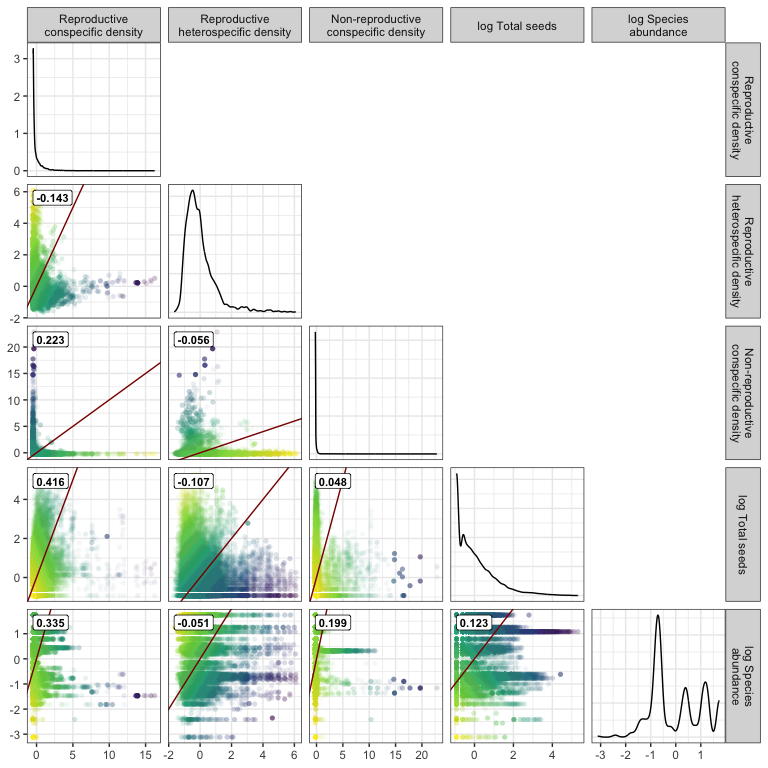
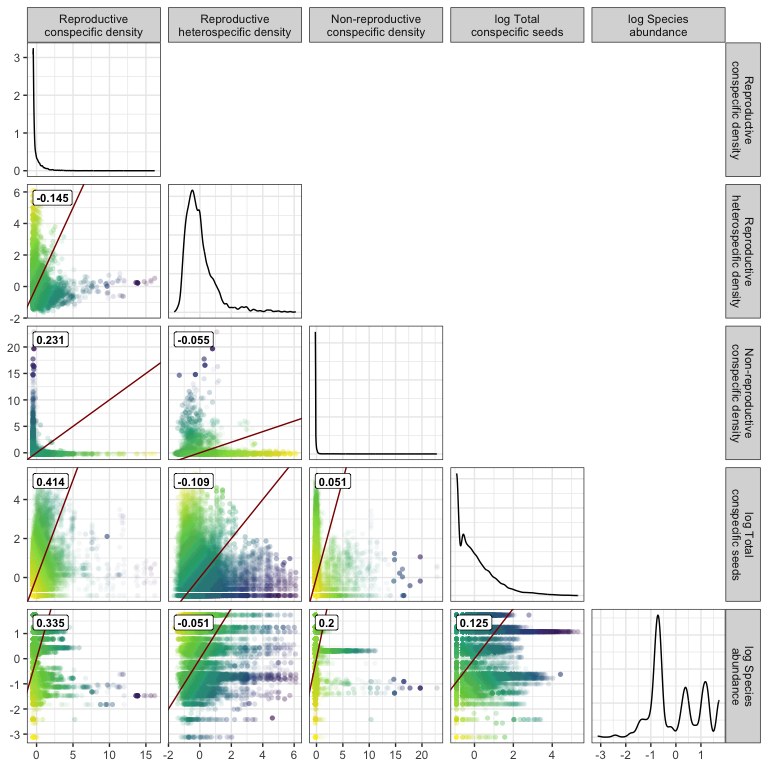
total seeds -> total conspecific seeds

diff --git a/code/exploration/34_collinearity-check.md b/code/exploration/34_collinearity-check.md
@@ -1,7 +1,7 @@
 Check collinearity
 ================
 Eleanor Jackson
-28 April, 2026
+11 June, 2026
 
 ``` r
 library("tidyverse")
@@ -32,12 +32,20 @@ draws_names <-
     "\u03b2 Reproductive\nconspecific density" = "b_conn_RC_sc",
     "\u03b2 Reproductive\nheterospecific density" = "b_conn_RH_sc",
     "\u03b2 Non-reproductive\nconspecific density" = "b_conn_NRC_sc",
-    "\u03b2 log Total seeds" = "b_log_total_seeds_sc",
+    "\u03b2 log Total\nconspecific seeds" = "b_log_total_seeds_sc",
     "\u03b2 log Species\nabundance" = "b_log_median_abundance_sc" )
 
 bayesplot::mcmc_pairs(draws_names, 
       diag_fun = "dens") 
 ```
+
+    ## Warning: Using `size` aesthetic for lines was deprecated in ggplot2 3.4.0.
+    ## ℹ Please use `linewidth` instead.
+    ## ℹ The deprecated feature was likely used in the bayesplot package.
+    ##   Please report the issue at <https://github.com/stan-dev/bayesplot/issues/>.
+    ## This warning is displayed once every 8 hours.
+    ## Call `lifecycle::last_lifecycle_warnings()` to see where this warning was
+    ## generated.
 
 ![](figures/34_collinearity-check/unnamed-chunk-3-1.png)<!-- -->
 
@@ -108,7 +116,7 @@ GGally::ggpairs(select(data, conn_RC_sc, conn_RH_sc, conn_NRC_sc,
                "Reproductive\nconspecific density",
                "Reproductive\nheterospecific density",
                "Non-reproductive\nconspecific density",
-               "log Total seeds",
+               "log Total\nconspecific seeds",
                "log Species\nabundance"
              )) +
   theme_bw()
